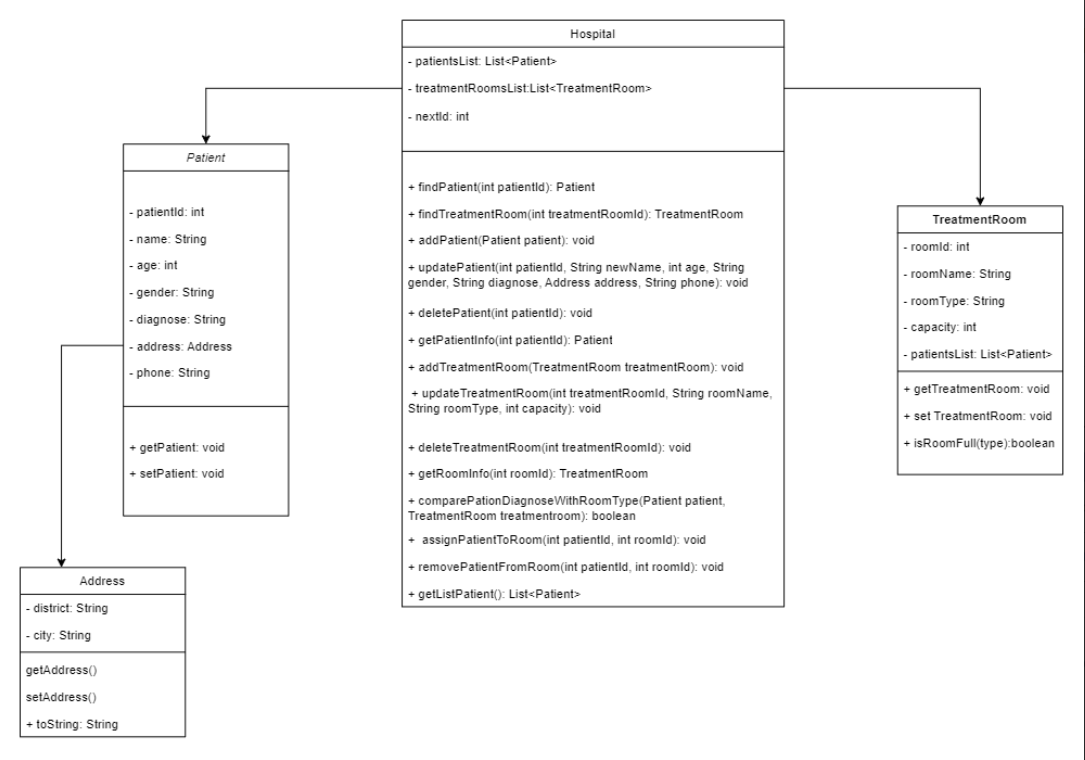
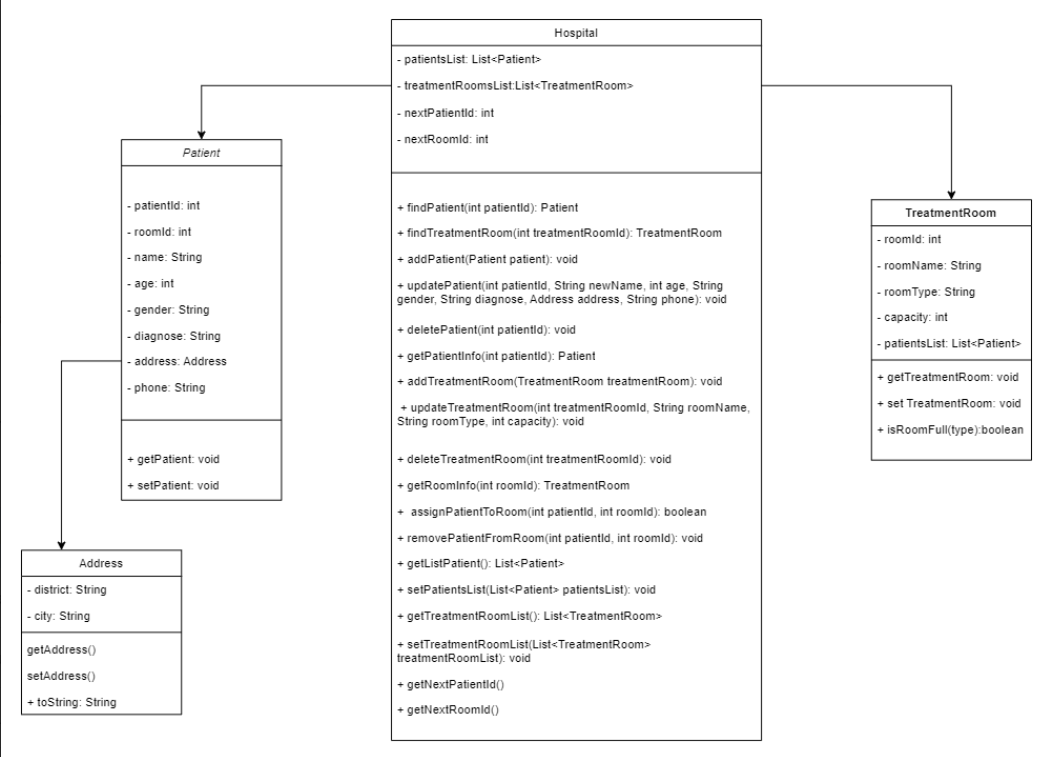
delete UML, all sequence and update new UML and three new sequences

Changed region(s): [[0.0, 0.0304, 1.0, 0.9723], [0.5176, 0.0304, 0.5785, 0.0608]]

diff --git a/deploy/src/main/java/com/finalproj/Modal/Hospital.java b/deploy/src/main/java/com/finalproj/Modal/Hospital.java
@@ -43,7 +43,6 @@ public class Hospital {
                 String district = resultSet.getString("district");
                 String phone = resultSet.getString("phone");
                 int roomId = resultSet.getInt("roomId");
-
                 Address address = new Address(city, district);
                 return new Patient(patientId, name, age, gender, diagnose, address, phone, roomId);
             }
@@ -292,7 +291,7 @@ public class Hospital {
             if (!treatmentRoom.isRoomFull() && !treatmentRoom.getPatientsList().contains(patient)) {
                 // Thực hiện truy vấn SQL để cập nhật roomId cho bệnh nhân
                 String sql = "UPDATE patient SET roomId = ? WHERE patientId = ?";
-                connection = getConnection(); // Giả sử bạn có phương thức này để lấy kết nối
+                connection = getConnection(); // có phương thức này để lấy kết nối
                 preparedStatement = connection.prepareStatement(sql);
                 preparedStatement.setInt(1, roomId); // Đặt roomId vào tham số 1
                 preparedStatement.setInt(2, patientId); // Đặt patientId vào tham số 2

diff --git a/README.md b/README.md
@@ -24,25 +24,25 @@ Dự án này là một hệ thống quản lý bệnh viện, giúp tối ưu h
 
 ## 1.2 UML Sequence Diagram
 
-## 1.2.1 : assignPatientToRoom()
+## 1.2.1 : findPatient
 
-![UML](./img/sequence1.jpg)
+![UML](./img/sequence1.png)
 
-## 1.2.2 : isRoomFull()
+## 1.2.2 : findTreatmentRoom
 
-![UML](./img/sequence2.jpg)
+![UML](./img/sequence2.png)
 
-## 1.2.3 : comparePatientDiagnoseWithRoomType()
+## 1.2.3 : assignPatientToRoom
 
-![UML](./img/sequence3.jpg)
+![UML](./img/sequence3.png)
 
 ## 1.2.4 : removePatientFromRoom()
 
-![UML](./img/sequence4.jpg)
+![UML](./img/)
 
-## 1.2.5 : getPatientListInRoom()
+## 1.2.5 :
 
-![UML](./img/seqence5.png)
+![UML](./img/)
 
 ## Giao diện đầu tiên của dự án
 ![firstScreen](./img/firstScreen.png)
